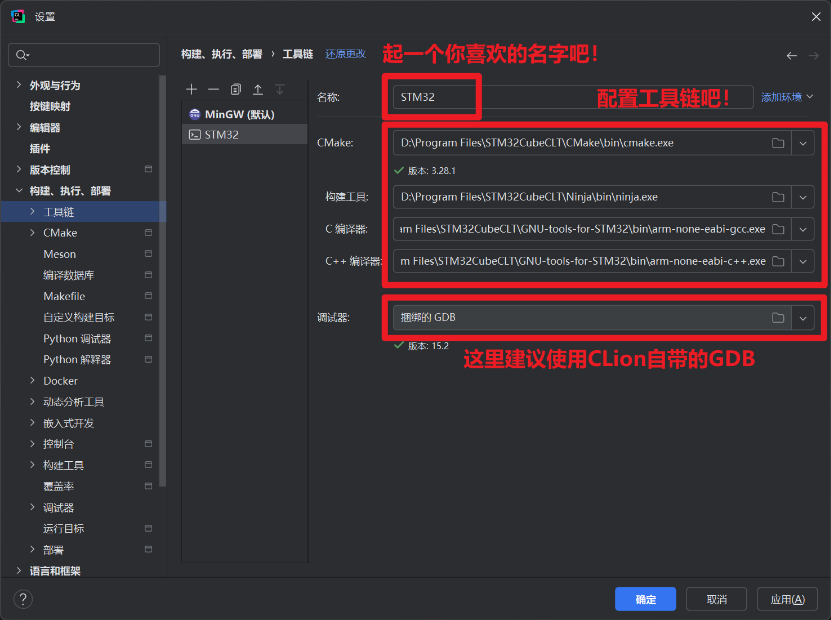
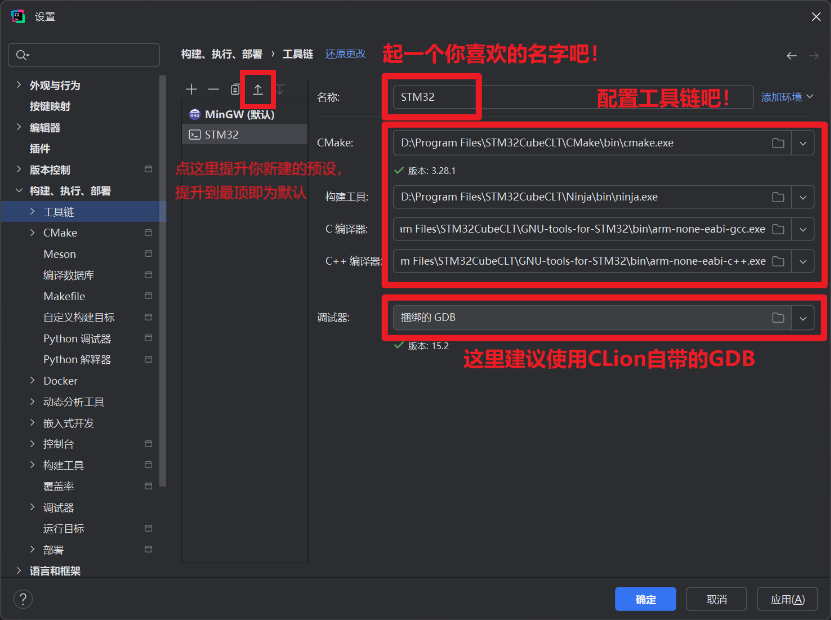
docs: Update CLion version in docs.

Changed region(s): [[0.2106, 0.2452, 0.4212, 0.3371], [0.2708, 0.0919, 0.3309, 0.1839]]

diff --git a/docs/教程/正文/IDE/CLion.md b/docs/教程/正文/IDE/CLion.md
@@ -36,18 +36,16 @@
 :::
 3. 在STM32CubeMX中，像往常一样完成项目配置，最后在Project Manager中，检查以下项目，完成后即可点击右上角【GENERATE CODE】生成代码；![05.png](../../../images/IDE/CLion/05.png)
 4. 将刚才复制的路径粘贴到CLion新建工程窗口的【位置】一栏中，点击【继续】完成工程创建；![06.png](../../../images/IDE/CLion/06.png)
-5. 将会自动弹出【打开项目向导】窗口，首先推荐勾选CMake自动重载以避免每次手动重载，将预设中的【工具链】修改为STM32预设；![07.png](../../../images/IDE/CLion/07.png)
+5. 将会自动弹出【打开项目向导】窗口，首先推荐勾选CMake自动重载以避免每次手动重载，将预设修改为`Debug - Debug预设`；![07.png](../../../images/IDE/CLion/07.png)
    ::: tip
-   如果没有的话，就点击【管理工具链】创建一个吧！
+   图中选择的配置有误，请选择`Debug - Debug预设`，**同时将你新建的【工具链】置顶设为默认！（因为`Debug - Debug预设`不允许用户自己选择工具链）**
    :::
 
-   ::: details 如何做？
+   ::: details 如何新建【工具链】？
 
    1. 点击【管理工具链】后，来到工具链管理页面，首先新建一个配置，选择【系统】；![16.png](../../../images/IDE/CLion/16.png)
-   2. 按照下图，选择你刚刚安装的STM32CubeCLT中的文件完成工具链的配置，完成后点击【应用】；![17.png](../../../images/IDE/CLion/17.png)
-      ::: tip
-      **如果你正在使用的CubeMX版本为6.15.0或更高，请将【C编译器】与【C++编译器】栏位留空！**
-   3. 随后转到**构建、执行、部署→嵌入式开发**选项卡下配置嵌入式工具链，如图，选择OpenOCD、STM32CubeMX与STM32CubeCLT的安   装路径，并确保右侧的【测试】全部通过；![18.png](../../../images/IDE/CLion/18.png)
+   2. 按照下图，选择你刚刚安装的STM32CubeCLT中的文件完成工具链的配置，**然后将你刚刚新建的工具链置顶/设为默认**，完成后点击【应用】；![17.png](../../../images/IDE/CLion/17.png)
+   3. 随后转到**构建、执行、部署→嵌入式开发**选项卡下配置嵌入式工具链，如图，选择OpenOCD、STM32CubeMX与STM32CubeCLT的安装路径，并确保右侧的【测试】全部通过；![18.png](../../../images/IDE/CLion/18.png)
    :::
    ::: warning
    正常情况下，【生成器】选项中将会默认选择Ninja（使用默认值），如果不是这样，请手动选择【生成器】为`Ninja`![38.png](../../../images/IDE/CLion/38.png)

diff --git a/docs/index.md b/docs/index.md
@@ -15,7 +15,7 @@ features:
   - title: 新人友好
     details: 本教程面向对嵌入式开发零基础的小白，小刻也能轻松上手！
   - title: 与时俱进
-    details: 尽可能使用最新的开发环境与技术栈。
+    details: 尽可能使用最新的开发环境、软件工具、驱动与技术栈。
   - title: 路线多样
     details: 提供STM32CubeIDE、VSCode与CLion等多种开发环境供你选择。
 ---

diff --git a/docs/About.md b/docs/About.md
@@ -1,4 +1,4 @@
-# 关于 <Badge type="tip" text="Ver.CH1.20-I" />
+# 关于 <Badge type="tip" text="Ver.CH1.25-A" />
 
 ## STM32GuideBook
 
